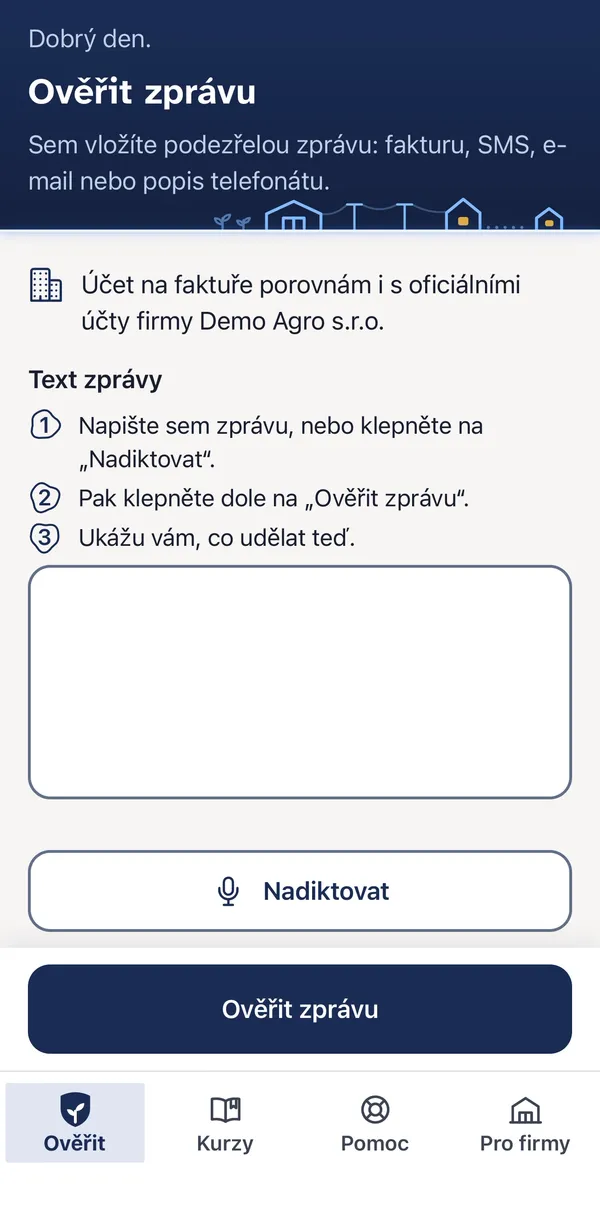
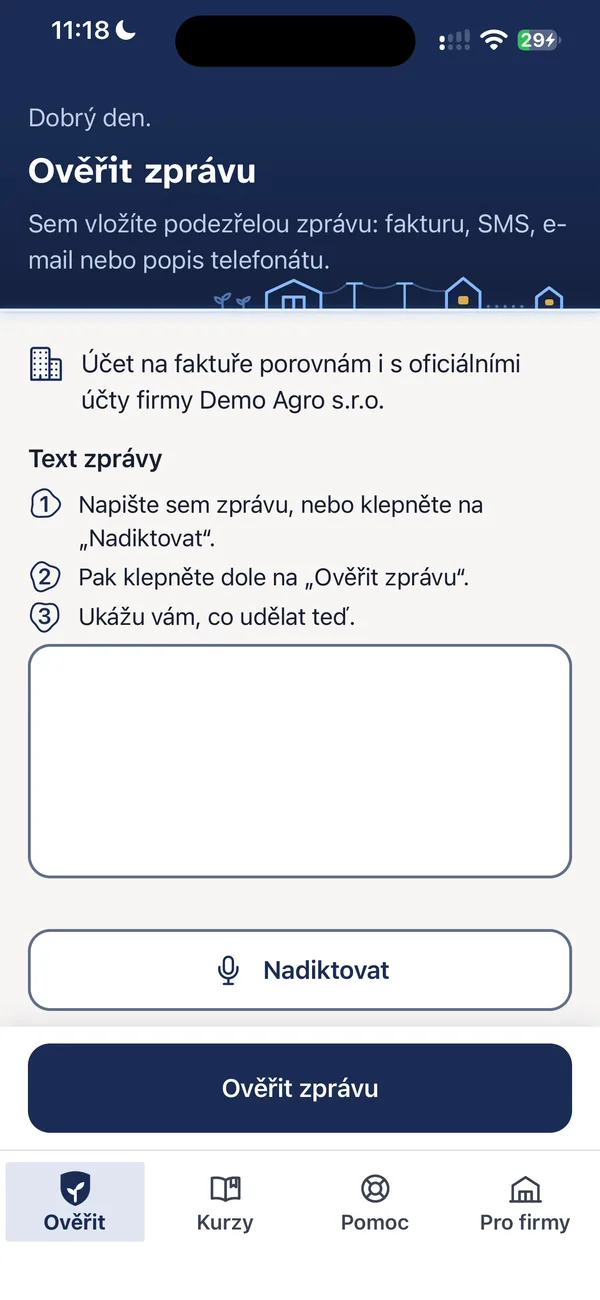
feat(home): realistic phone frames, AgroŠtít site link, animated principles
- CSS iPhone frames (bezel, side buttons, Dynamic Island) with clean real
  screens: AgroŠtít iPhone frames without recording marks, CherryPicker
  simulator shots; two phones per project
- 'Web projektu AgroŠtít' button to agrostit.vercel.app
- 'How I work with AI' cards stagger in with icons and hover lift
- Calculator cards: filled pill CTA with sliding arrow
- Hero/About copy per Evgenii (flags CZ/SK inline)

diff --git a/app/[locale]/page.jsx b/app/[locale]/page.jsx
@@ -5,6 +5,7 @@ import Footer from '@/components/Footer';
 import About from '@/components/About';
 import Contact from '@/components/Contact';
 import ProjectVideo from '@/components/ProjectVideo';
+import PhoneFrame from '@/components/PhoneFrame';
 import AutomationChart from '@/components/AutomationChart';
 import Reveal from '@/components/motion/Reveal';
 import CountUp from '@/components/motion/CountUp';
@@ -20,6 +21,7 @@ import {
   CONTACT,
   PROFILE_PHOTO,
   AGROSTIT_VIDEO_ID,
+  AGROSTIT_SITE,
   CHERRYPICKER_APP_STORE,
 } from '@/lib/site';
 
@@ -47,8 +49,8 @@ const GRID_STYLE = {
   backgroundSize: '44px 32px',
 };
 
-const AGROSTIT_SHOTS = ['/images/projects/agrostit-home.webp', '/images/projects/agrostit-result.webp', '/images/projects/agrostit-whatnow.webp'];
-const CHERRYPICKER_SHOTS = ['/images/projects/cherrypicker-plan.webp', '/images/projects/cherrypicker-list.webp', '/images/projects/cherrypicker-budget.webp'];
+const AGROSTIT_SHOTS = ['/images/projects/agrostit-home.webp', '/images/projects/agrostit-result.webp'];
+const CHERRYPICKER_SHOTS = ['/images/projects/cherrypicker-plan.webp', '/images/projects/cherrypicker-list.webp'];
 
 function Points({ items, className = '' }) {
   return (
@@ -63,25 +65,12 @@ function Points({ items, className = '' }) {
   );
 }
 
-// Three screenshots in an even row. `ratio` is the screenshots' own
-// width/height, so nothing gets cropped.
-function Shots({ srcs, alts, ratio, framed = false }) {
+// Two phones side by side, the second one set a little lower.
+function Shots({ srcs, alts, ratio, island = false }) {
   return (
-    <div className="grid grid-cols-3 items-start gap-3 sm:gap-5 lg:w-[492px] lg:gap-4 lg:self-start">
+    <div className="mx-auto grid w-full max-w-[420px] grid-cols-2 items-start gap-6 sm:gap-8 lg:mx-0 lg:w-[440px] lg:max-w-none lg:self-start">
       {srcs.map((src, i) => (
-        <div
-          key={src}
-          className={`shadow-xl ${
-            framed ? 'rounded-[1.1rem] bg-slate-900 p-[3px] sm:rounded-[1.4rem] sm:p-1' : ''
-          }`}
-        >
-          <div
-            className={`relative w-full overflow-hidden ${framed ? 'rounded-[0.9rem] sm:rounded-[1.15rem]' : 'rounded-xl ring-1 ring-white/20 sm:rounded-2xl'}`}
-            style={{ aspectRatio: ratio }}
-          >
-            <Image src={src} alt={alts[i]} fill sizes="(min-width: 1024px) 160px, 30vw" className="object-cover object-top" />
-          </div>
-        </div>
+        <PhoneFrame key={src} src={src} alt={alts[i]} ratio={ratio} island={island} className={i === 1 ? 'mt-10' : ''} />
       ))}
     </div>
   );
@@ -233,8 +222,18 @@ export default function HomePage({ params }) {
                     <h3 className="font-display text-3xl font-semibold tracking-tight sm:text-5xl">{p.agrostit.name}</h3>
                     <p className="mt-4 max-w-2xl text-lg leading-relaxed text-white/85">{p.agrostit.tagline}</p>
                     <p className="mt-4 inline-block rounded-lg bg-white/10 px-3 py-1.5 text-sm leading-snug text-white/80">{p.agrostit.status}</p>
+                    <div>
+                      <a
+                        href={AGROSTIT_SITE}
+                        target="_blank"
+                        rel="noopener noreferrer"
+                        className="mt-8 inline-flex h-11 items-center rounded-full bg-white px-5 text-sm font-medium text-[#0B2545] transition-transform hover:scale-[1.03] focus-visible:outline-none focus-visible:ring-2 focus-visible:ring-white focus-visible:ring-offset-2 focus-visible:ring-offset-[#0B2545]"
+                      >
+                        {p.agrostit.siteLink}
+                      </a>
+                    </div>
                   </div>
-                  <Shots srcs={AGROSTIT_SHOTS} alts={p.agrostit.shotsAlt} ratio="600 / 1221" framed />
+                  <Shots srcs={AGROSTIT_SHOTS} alts={p.agrostit.shotsAlt} ratio="600 / 1300" />
                   <Points items={p.agrostit.points} className="grid gap-x-12 gap-y-4 space-y-0 border-t border-white/15 pt-8 text-white/75 md:grid-cols-2 lg:col-span-2" />
                 </div>
               </article>
@@ -275,7 +274,7 @@ export default function HomePage({ params }) {
                       {p.cherrypicker.storeLink}
                     </a>
                   </div>
-                  <Shots srcs={CHERRYPICKER_SHOTS} alts={p.cherrypicker.shotsAlt} ratio="640 / 1391" />
+                  <Shots srcs={CHERRYPICKER_SHOTS} alts={p.cherrypicker.shotsAlt} ratio="600 / 1304" island />
                   <Points items={p.cherrypicker.points} className="grid gap-x-12 gap-y-4 space-y-0 border-t border-white/15 pt-8 text-white/75 md:grid-cols-2 lg:col-span-2" />
                 </div>
               </article>

diff --git a/src/i18n/sk.js b/src/i18n/sk.js
@@ -19,7 +19,7 @@ const sk = {
     role: 'Business Controller v Timac Agro Slovakia, Bratislava',
     headline: 'Automatizujem finančné procesy a staviam nástroje s AI agentmi.',
     lead:
-      'Mám na starosti controlling pre dve spoločnosti, českú {cz} a slovenskú {sk}. Opakovanú prácu v Exceli automatizujem v Pythone, VBA a s pomocou rôznych AI nástrojov. Vo voľnom čase vyvíjam vlastné aplikácie. Som presvedčený, že budúcnosť patrí AI automatizácii a AI agentom, a práve na nich chcem pracovať.',
+      'Mám na starosti controlling pre dve entity {cz}{sk}. Opakovanú prácu v Exceli automatizujem v Pythone, VBA a pomocou rôznych AI nástrojov. Vo voľnom čase vyvíjam vlastné aplikácie. Som presvedčený, že budúcnosť patrí AI automatizácii a AI agentom, a práve na nich chcem pracovať.',
     primaryCta: 'Pozrieť projekty',
     secondaryCta: 'Napísať mi',
     facts: [
@@ -40,7 +40,7 @@ const sk = {
   about: {
     title: 'O mne',
     paragraphs: [
-      'Od mája 2026 pracujem ako Business Controller v Timac Agro Slovakia (Groupe Roullier {fr}). Robím mesačnú uzávierku a reporting pre skupinu za českú {cz} aj slovenskú {sk} spoločnosť a pomáham CFO mať lepší prehľad o prevádzke firmy.',
+      'Od mája 2026 pracujem ako Business Controller v Timac Agro Slovakia (Groupe Roullier {fr}). Robím mesačné uzávierky a reporting pre skupinu za českú {cz} aj slovenskú {sk} spoločnosti a pomáham CFO mať lepší prehľad o prevádzke firmy.',
       'Najprv som automatizoval vlastnú prácu, potom nástroje pre kolegov z logistiky, HR a administratívy. Každý nástroj je jednoduchý na používanie, riadne zdokumentovaný a overiteľný: výsledok musí sedieť s kontrolným súčtom na nulový rozdiel.',
       'Predtým som pracoval vo financiách v Deutsche Telekom Cloud Services a v Arval Slovakia, robil cenové modely pre personálnu agentúru ATALIS a spoluzakladal sieť samoobslužných kávových staníc Coffee Corner, kde som mal na starosti P&L a cash flow.',
     ],
@@ -86,8 +86,9 @@ const sk = {
       videoLabel: 'Demo video, 3 minúty',
       videoPlay: 'Prehrať demo video AgroŠtít',
       videoTitle: 'AgroŠtít: demo',
+      siteLink: 'Web projektu AgroŠtít',
       sceneAlt: 'AgroŠtít v telefóne na kuchynskom stole vedľa faktúry',
-      shotsAlt: ['Úvodná obrazovka: overiť správu', 'Výsledok kontroly s varovnými znakmi', 'Čo robiť, ak ste už zaplatili'],
+      shotsAlt: ['Úvodná obrazovka: overiť správu', 'Výsledok kontroly s varovnými znakmi'],
     },
     cherrypicker: {
       name: 'CherryPicker',
@@ -106,7 +107,7 @@ const sk = {
       ],
       storeLink: 'CherryPicker v App Store',
       sceneAlt: 'CherryPicker v telefóne vedľa akciových letákov a zeleniny',
-      shotsAlt: ['Jedálniček na týždeň z akcií', 'Nákupný zoznam podľa obchodov', 'Recepty podľa rozpočtu'],
+      shotsAlt: ['Jedálniček na týždeň z akcií', 'Nákupný zoznam podľa obchodov'],
     },
     automation: {
       name: 'Automatizácia finančných procesov',

diff --git a/src/i18n/en.js b/src/i18n/en.js
@@ -19,7 +19,7 @@ const en = {
     role: 'Business Controller at Timac Agro Slovakia, Bratislava',
     headline: 'I automate finance processes and build tools with AI agents.',
     lead:
-      'I run controlling for two entities, one Czech {cz} and one Slovak {sk}. I automate recurring Excel work with Python, VBA and a range of AI tools, and in my free time I build my own apps. I believe the future belongs to AI automation and AI agents, and that is where I want to work.',
+      'I run controlling for two entities {cz}{sk}. I automate recurring Excel work with Python, VBA and various AI tools, and in my free time I build my own apps. I believe the future belongs to AI automation and AI agents, and that is where I want to work.',
     primaryCta: 'See projects',
     secondaryCta: 'Write to me',
     facts: [
@@ -40,7 +40,7 @@ const en = {
   about: {
     title: 'About',
     paragraphs: [
-      'Since May 2026 I have been Business Controller at Timac Agro Slovakia, part of Groupe Roullier {fr}. I handle month-end close and group reporting for the Czech {cz} and the Slovak {sk} entity, and help the CFO get a clearer view of how the business runs.',
+      'Since May 2026 I have been Business Controller at Timac Agro Slovakia, part of Groupe Roullier {fr}. I handle month-end closes and group reporting for the Czech {cz} and the Slovak {sk} entities, and help the CFO get a clearer view of how the business runs.',
       'I started by automating my own work, then built tools for colleagues in logistics, HR and office administration. Every tool is easy to use, properly documented and verifiable: its output has to reconcile to a control total with zero difference.',
       'Before that I worked in finance at Deutsche Telekom Cloud Services and Arval Slovakia, built pricing models for the staffing company ATALIS, and co-founded Coffee Corner, a network of self-service coffee stations, where I owned the P&L and cash flow.',
     ],
@@ -85,8 +85,9 @@ const en = {
       videoLabel: 'Demo video, 3 minutes',
       videoPlay: 'Play the AgroŠtít demo video',
       videoTitle: 'AgroŠtít demo',
+      siteLink: 'AgroŠtít project website',
       sceneAlt: 'AgroŠtít on a phone at a kitchen table next to an invoice',
-      shotsAlt: ['Home screen: check a message', 'Check result with warning signs', 'What to do if you already paid'],
+      shotsAlt: ['Home screen: check a message', 'Check result with warning signs'],
     },
     cherrypicker: {
       name: 'CherryPicker',
@@ -105,7 +106,7 @@ const en = {
       ],
       storeLink: 'CherryPicker on the App Store',
       sceneAlt: 'CherryPicker on a phone next to promo leaflets and vegetables',
-      shotsAlt: ['Weekly meal plan from promotions', 'Shopping list by store', 'Recipes for your budget'],
+      shotsAlt: ['Weekly meal plan from promotions', 'Shopping list by store'],
     },
     automation: {
       name: 'Finance process automation',

diff --git a/src/components/ToolCards.jsx b/src/components/ToolCards.jsx
@@ -1,4 +1,5 @@
 import Link from 'next/link';
+import { ArrowRight } from 'lucide-react';
 import tools, { toolText } from '@/config/tools';
 import Reveal from './motion/Reveal';
 
@@ -12,15 +13,18 @@ export default function ToolCards({ locale, openLabel }) {
           <Reveal as="li" key={tool.slug} delay={i * 0.06}>
             <Link
               href={`/${locale}/tools/${tool.slug}`}
-              className="group flex h-full gap-5 rounded-2xl border border-border bg-background p-6 shadow-sm transition-all duration-300 hover:-translate-y-1 hover:border-primary/40 hover:shadow-lg focus-visible:outline-none focus-visible:ring-2 focus-visible:ring-ring sm:p-7"
+              className="group flex h-full flex-col rounded-2xl border border-border bg-background p-6 shadow-sm transition-all duration-300 hover:-translate-y-1 hover:border-primary/40 hover:shadow-xl focus-visible:outline-none focus-visible:ring-2 focus-visible:ring-ring sm:p-7"
             >
-              <span className="flex h-12 w-12 shrink-0 items-center justify-center rounded-xl bg-primary/10 text-primary transition-colors duration-300 group-hover:bg-primary group-hover:text-white">
+              <span className="flex h-12 w-12 items-center justify-center rounded-xl bg-primary/10 text-primary transition-colors duration-300 group-hover:bg-primary group-hover:text-white">
                 <Icon className="h-5 w-5" aria-hidden="true" />
               </span>
-              <span>
-                <span className="block font-display text-xl font-semibold">{text.title}</span>
-                <span className="mt-1.5 block text-sm leading-relaxed text-muted-foreground">{text.desc}</span>
-                <span className="mt-4 block text-sm font-medium text-primary">{openLabel}</span>
+              <span className="mt-5 block font-display text-xl font-semibold">{text.title}</span>
+              <span className="mt-2 block text-sm leading-relaxed text-muted-foreground">{text.desc}</span>
+              <span className="mt-auto pt-6">
+                <span className="inline-flex h-10 items-center gap-2 rounded-full bg-foreground pl-5 pr-4 text-sm font-medium text-background transition-colors duration-300 group-hover:bg-primary">
+                  {openLabel}
+                  <ArrowRight className="h-4 w-4 transition-transform duration-300 group-hover:translate-x-1" aria-hidden="true" />
+                </span>
               </span>
             </Link>
           </Reveal>

diff --git a/src/components/Principles.jsx b/src/components/Principles.jsx
@@ -1,0 +1,44 @@
+'use client';
+import { motion, useReducedMotion } from 'framer-motion';
+import { UserCheck, Users, ListChecks, ShieldCheck, FlaskConical } from 'lucide-react';
+
+const ICONS = [UserCheck, Users, ListChecks, ShieldCheck, FlaskConical];
+
+const list = { hidden: {}, show: { transition: { staggerChildren: 0.12 } } };
+const card = {
+  hidden: { opacity: 0, y: 32, scale: 0.96 },
+  show: { opacity: 1, y: 0, scale: 1, transition: { duration: 0.6, ease: [0.22, 1, 0.36, 1] } },
+};
+
+export default function Principles({ title, items }) {
+  const reduce = useReducedMotion();
+  return (
+    <div>
+      <h3 className="font-display text-2xl font-semibold tracking-tight">{title}</h3>
+      <motion.ul
+        className="mt-6 grid gap-4 sm:grid-cols-2 lg:grid-cols-5"
+        variants={reduce ? undefined : list}
+        initial={reduce ? false : 'hidden'}
+        whileInView="show"
+        viewport={{ once: true, margin: '-10% 0px' }}
+      >
+        {items.map((pr, i) => {
+          const Icon = ICONS[i % ICONS.length];
+          return (
+            <motion.li
+              key={pr.title}
+              variants={reduce ? undefined : card}
+              className="group rounded-xl border border-border bg-background p-5 transition-[transform,box-shadow,border-color] duration-300 hover:-translate-y-1 hover:border-primary/40 hover:shadow-lg"
+            >
+              <span className="flex h-10 w-10 items-center justify-center rounded-lg bg-primary/10 text-primary transition-colors duration-300 group-hover:bg-primary group-hover:text-white">
+                <Icon className="h-5 w-5" aria-hidden="true" />
+              </span>
+              <p className="mt-4 font-medium leading-snug">{pr.title}</p>
+              <p className="mt-2 text-sm leading-relaxed text-muted-foreground">{pr.text}</p>
+            </motion.li>
+          );
+        })}
+      </motion.ul>
+    </div>
+  );
+}

diff --git a/src/components/PhoneFrame.jsx b/src/components/PhoneFrame.jsx
@@ -1,0 +1,23 @@
+import Image from 'next/image';
+
+// CSS iPhone: dark bezel, side buttons and (optionally) a Dynamic Island for
+// screenshots that do not already include one. `ratio` = screenshot width / height.
+export default function PhoneFrame({ src, alt, ratio, island = false, className = '' }) {
+  const button = 'absolute w-[1.6%] bg-[#3a3a3c]';
+  return (
+    <div className={`relative ${className}`}>
+      <span className={`${button} -left-[1.4%] top-[16%] h-[4%] rounded-l-sm`} aria-hidden="true" />
+      <span className={`${button} -left-[1.4%] top-[23%] h-[7.5%] rounded-l-sm`} aria-hidden="true" />
+      <span className={`${button} -left-[1.4%] top-[32%] h-[7.5%] rounded-l-sm`} aria-hidden="true" />
+      <span className={`${button} -right-[1.4%] top-[26%] h-[11%] rounded-r-sm`} aria-hidden="true" />
+      <div className="rounded-[15%/7%] bg-[#1c1c1e] p-[3.5%] shadow-[0_30px_60px_-24px_rgba(0,0,0,0.65)] ring-1 ring-white/15">
+        <div className="relative overflow-hidden rounded-[12%/5.6%] bg-black" style={{ aspectRatio: ratio }}>
+          <Image src={src} alt={alt} fill sizes="(min-width: 1024px) 210px, 42vw" className="object-cover object-top" />
+          {island && (
+            <span className="absolute left-1/2 top-[1.2%] h-[4.1%] w-[31%] -translate-x-1/2 rounded-full bg-black" aria-hidden="true" />
+          )}
+        </div>
+      </div>
+    </div>
+  );
+}

diff --git a/src/components/About.jsx b/src/components/About.jsx
@@ -2,6 +2,7 @@ import { CONTACT } from '@/lib/site';
 import Reveal from './motion/Reveal';
 import Timeline from './Timeline';
 import FlagText from './FlagText';
+import Principles from './Principles';
 
 export default function About({ t }) {
   return (
@@ -40,17 +41,9 @@ export default function About({ t }) {
           </div>
         </Reveal>
 
-        <Reveal className="lg:col-span-2">
-          <h3 className="font-display text-2xl font-semibold tracking-tight">{t.principlesTitle}</h3>
-          <ul className="mt-6 grid gap-4 sm:grid-cols-2 lg:grid-cols-5">
-            {t.principles.map((pr) => (
-              <li key={pr.title} className="rounded-xl border border-border bg-background p-5">
-                <p className="font-medium leading-snug">{pr.title}</p>
-                <p className="mt-2 text-sm leading-relaxed text-muted-foreground">{pr.text}</p>
-              </li>
-            ))}
-          </ul>
-        </Reveal>
+        <div className="lg:col-span-2">
+          <Principles title={t.principlesTitle} items={t.principles} />
+        </div>
       </div>
     </section>
   );

diff --git a/src/lib/site.js b/src/lib/site.js
@@ -15,6 +15,7 @@ export const CONTACT = {
 };
 
 export const AGROSTIT_VIDEO_ID = 'ztkJkWzBfTk';
+export const AGROSTIT_SITE = 'https://agrostit.vercel.app/';
 export const CHERRYPICKER_APP_STORE = 'https://apps.apple.com/sk/app/id6817686801';
 
 // Returns absolute URL for OG/canonical fields. Accepts absolute http(s) URLs
